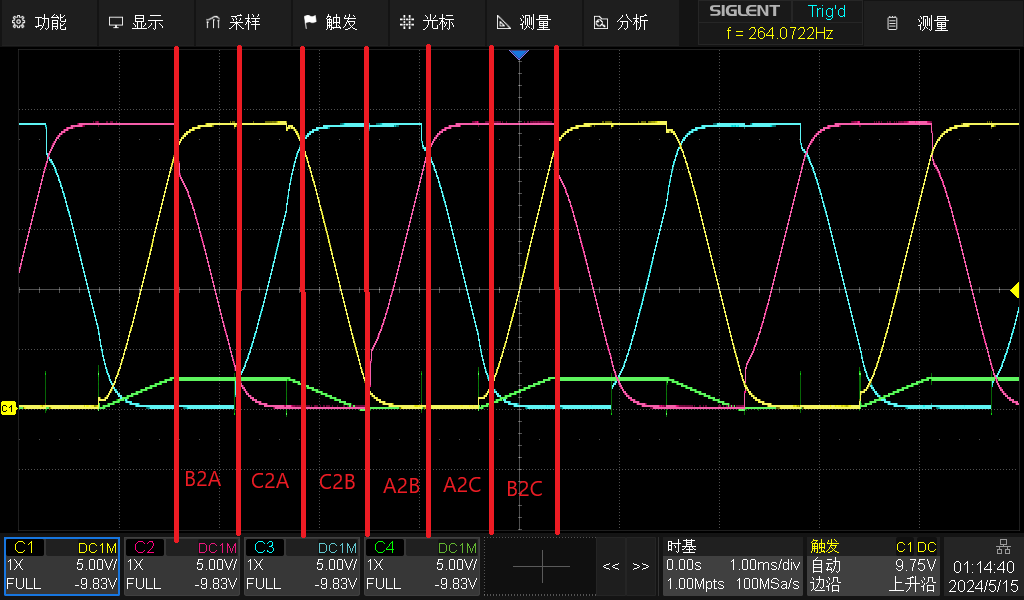
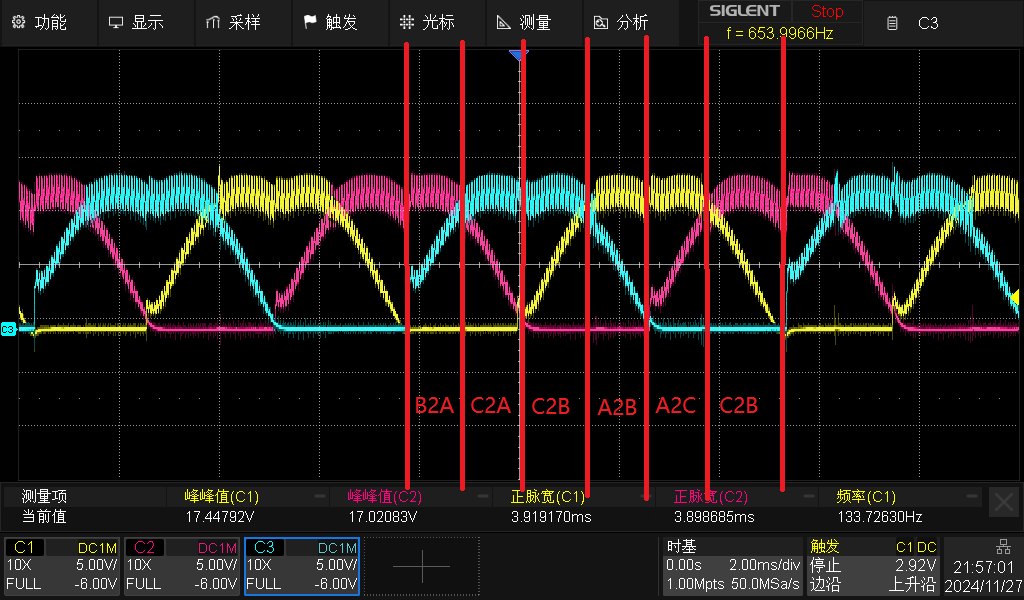
修正反电动势错误图示

diff --git a/电机控制/240509~直流无刷电机控制（1）六步换相与霍尔换相闭环.md b/电机控制/240509~直流无刷电机控制（1）六步换相与霍尔换相闭环.md
@@ -46,11 +46,9 @@ $$
 
 ### 六步换向实际测量图示
 
-如下图示CH1黄色为A，CH3蓝色为B，CH2粉色为C。测量结果为各相反电动势。
+如下图示CH1黄色为A,CH2粉色为B,CH3蓝色为C。测量结果为各相反电动势。
 
-![6stepx](../image/240509/SDS814X_HD_PNG_1X.png)
-
-![6stepxx](../image/240509/SDS814X_HD_PNG_4.png)
+![6stepx](../image/240509/SDS814X_HD_PNG_1x.png)
 
 ## 调制方法
 
